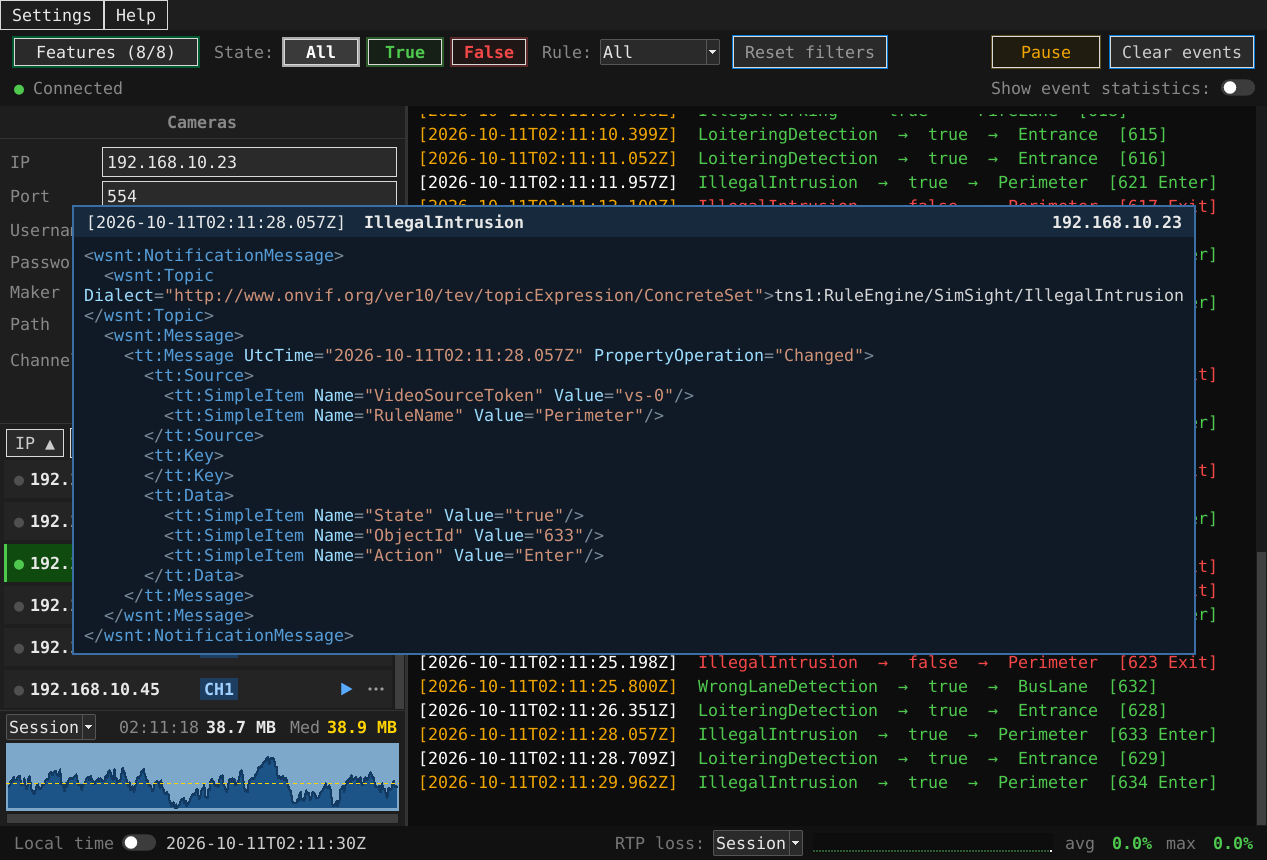
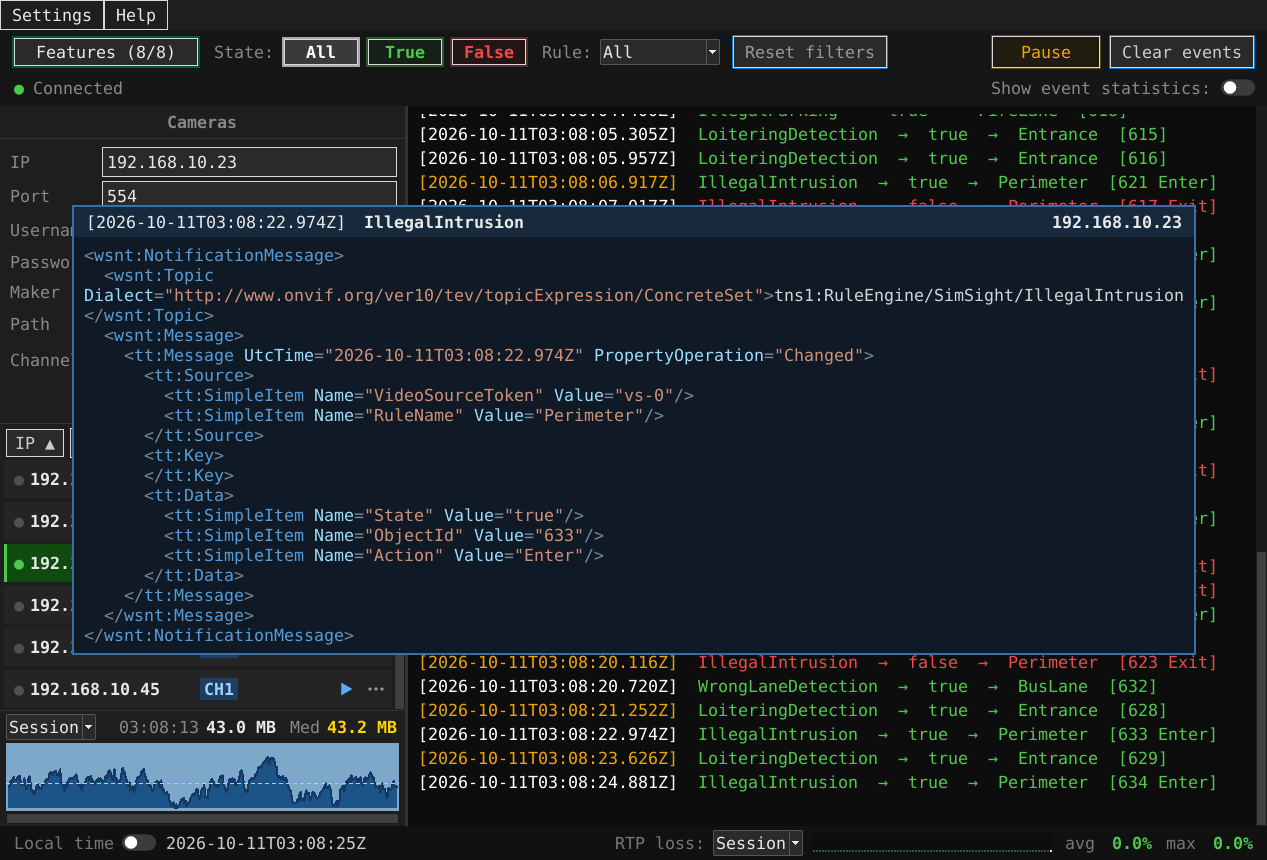
Event colors in Settings > General; American English throughout

diff --git a/index.html b/index.html
@@ -191,10 +191,10 @@
       </div>
     </div>
     <ul class="feats">
-      <li><b>Live event log</b> with a colour per timestamp, so events of the same moment group together.</li>
+      <li><b>Live event log</b> with a color per timestamp, so events of the same moment group together.</li>
       <li><b>Filters:</b> features (right-click one to show only it), True / False state, rule.</li>
       <li><b>Pause</b> (Space) stops printing so you can read; a banner marks the pause and how many events it skipped.</li>
-      <li><b>Metadata on a double-click:</b> a timestamp copies that event's XML; a feature name shows it, colour-coded, with a picture of it on the clipboard.</li>
+      <li><b>Metadata on a double-click:</b> a timestamp copies that event's XML; a feature name shows it, color-coded, with a picture of it on the clipboard.</li>
       <li><b>Your fields:</b> choose which SimpleItem values follow each event (ObjectId, Action, Speed, Count, or add your own).</li>
       <li><b>Event statistics:</b> True / False / total per feature, Enter / Exit counts, average rates (over the whole session or its last 10 seconds to 1 minute), the last state and the time since it.</li>
       <li><b>Health charts:</b> RTP packet loss over the last minutes or the whole session, and the app's own memory use, which should stay level: a line that keeps climbing is a memory leak worth reporting.</li>
@@ -346,7 +346,7 @@ const DEMO_VIDEO = "media/demo.mp4";
 const DEMO_POSTER = "media/demo.jpg";
 // The screenshots' revision: tools/demo_screenshots.py sets it when it saves new
 // ones, so browsers and the Pages CDN fetch them again instead of a cached copy.
-const MEDIA_REV = "202610110212";
+const MEDIA_REV = "202610110309";
 const SCREENSHOTS = [
   ["media/screenshot-1.png", "Main window after 30 hours: cameras, live event log, memory and RTP loss"],
   ["media/screenshot-2.png", "Choose the camera's maker: the path of its metadata stream is filled in"],

diff --git a/media/README.md b/media/README.md
@@ -8,7 +8,7 @@ Missing files are skipped; with none the section stays hidden.
 | `screenshot-1.png` | Main window after 30 hours: cameras, live event log, memory and RTP loss | The whole window, connected, events scrolling |
 | `screenshot-2.png` | Choose the camera's maker: the path of its metadata stream is filled in | The Maker list open, a maker chosen |
 | `screenshot-3.png` | Event statistics after 30 hours of monitoring | "Show event statistics" switched on |
-| `screenshot-4.png` | An event's metadata (double-click a feature) | The colour-coded metadata panel over the log |
+| `screenshot-4.png` | An event's metadata (double-click a feature) | The color-coded metadata panel over the log |
 | `screenshot-5.png` | Features: choose which events to show | The Features popup |
 | `screenshot-6.png` | Right-click a feature: only its events are shown | The Features popup after a right-click on one feature |
 | `screenshot-7.png` | Paused (Space): the banner counts the events skipped | The log while paused |

diff --git a/README.md b/README.md
@@ -26,7 +26,7 @@ as one readable line: the time, the feature, whether it started or ended (**True
 the rule that fired, and the details you choose (object ID, Enter / Exit, speed, count…).
 
 - **Filters** by feature, state and rule; **Pause** (Space) to read.
-- **Double-click** a timestamp to copy the event's XML, or a feature to see it colour-coded.
+- **Double-click** a timestamp to copy the event's XML, or a feature to see it color-coded.
 - **Event statistics** per feature, with average rates and Enter / Exit counts.
 - **RTP packet loss** and memory charts for long sessions.
 - Saves event logs and metadata per camera, if you want.
